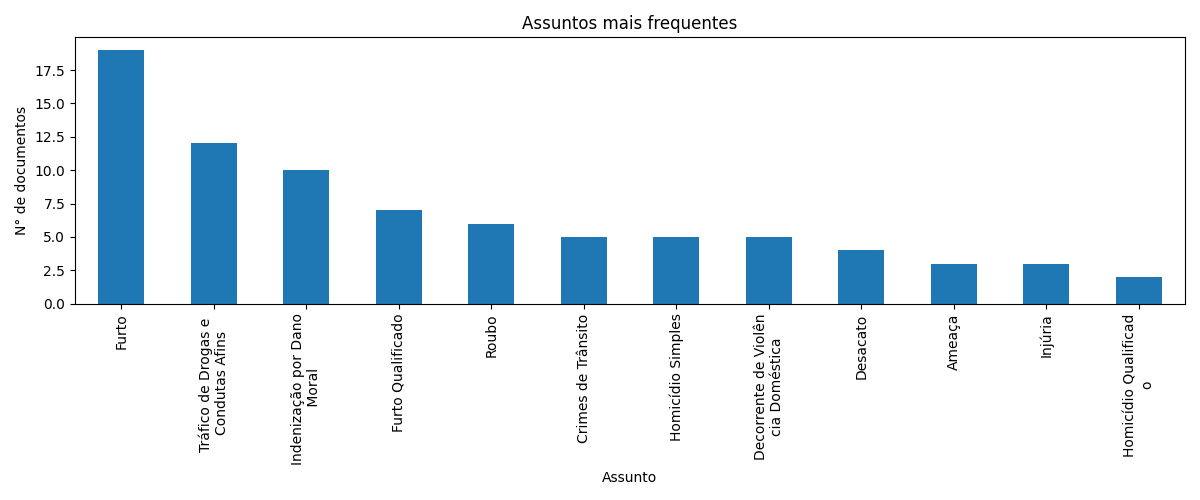
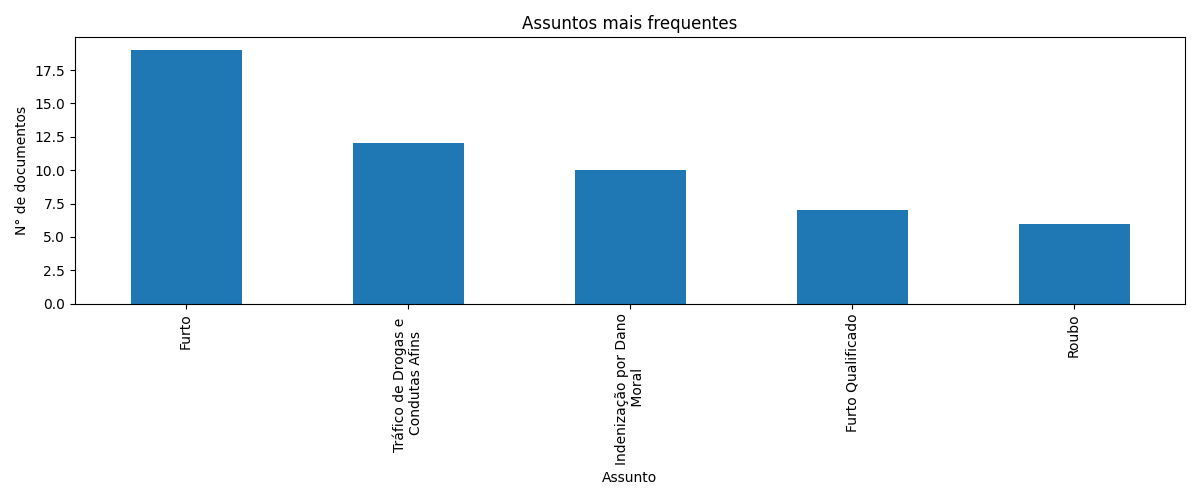
added pie chart option to count documents model

diff --git a/Interface/gui/views.py b/Interface/gui/views.py
@@ -617,15 +617,16 @@ class StatisticsOptionsView(View):
                     my_image = tk.PhotoImage(file = line)
                     text_box.image_create(tk.END, image = my_image)
                     # resize so the image can be seen
-                    height = height = 30
+                    height = height + 20
                     text_box.config(height = height)
 
                     # download image button
+                    text_box.insert(tk.END,'\n')
                     def download_handler(self=self, image = my_image, image_path = line):
                         return self.download_image(image,image_path)
-                    last_line_init = text_box.get('end-1c linestart')
-                    print(len(last_line_init))
                     text_box.window_create(tk.END, window = ttk.Button(text_box, text = 'Baixar imagem',command = download_handler))
+                    # Centralize button and image
+                    text_box.tag_add('center','end-1l linestart','end')
                 elif isinstance(line,str):
                     text_box.insert(tk.END,line,'left')
                 else:
@@ -681,8 +682,10 @@ class CountDocumentsView(ComponentView):
         super().__init__()
         self.parent = None
         self.selection_list = []
-        self.histogram_select_variable = tk.IntVar()
-        self.histogram_n_variable = tk.StringVar()
+        self.bar_select_variable = tk.IntVar()
+        self.bar_n_variable = tk.StringVar()
+        self.pie_select_variable = tk.IntVar()
+        self.pie_n_variable = tk.StringVar()
 
     def create_view(self,parent, view_filters_list):
         self.parent = parent
@@ -700,44 +703,64 @@ class CountDocumentsView(ComponentView):
 
         self.create_combobox(self.combobox_frame, width = 10, font = self.verytiny_font,justify = 'right', state = 'readonly', values = view_filters_list)
 
-        # histogram options
+        # bar options
         self.his_frame = ttk.Frame(parent)
         self.his_frame.grid(row = 1, column = 0, pady = 5, sticky = tk.W)
 
         self.his_label = ttk.Label(self.his_frame, text = 'Gerar gráfico de barras', style = 'Std.TLabel')
         self.his_label.grid(row = 0, column = 0)
 
-        self.hist_checkbox = ttk.Checkbutton(self.his_frame, variable = self.histogram_select_variable, command = self.show_hide_hist_options)
-        self.hist_checkbox.grid(row = 0, column = 1, padx = 10)
+        self.bar_checkbox = ttk.Checkbutton(self.his_frame, variable = self.bar_select_variable, command = self.show_hide_bar_options)
+        self.bar_checkbox.grid(row = 0, column = 1, padx = 10, sticky = tk.E)
 
-        self.hist_options_frame = ttk.Frame(self.his_frame)
-        self.hist_options_frame.grid(row = 0, column = 2)
-        self.hist_options_label1 = ttk.Label(self.hist_options_frame, text = '- Considerar as ', style = 'Std.TLabel')
-        self.hist_options_label1.grid(row = 0, column = 0)
-        self.histogram_n_variable.set('')
-        self.hist_options_entry = ttk.Entry(self.hist_options_frame, textvariable = self.histogram_n_variable, width = 4)
-        self.hist_options_entry.grid(row = 0, column = 1)
-        self.hist_options_label2 = ttk.Label(self.hist_options_frame, text = ' aparições mais frequentes. ', style = 'Std.TLabel')
-        self.hist_options_label2.grid(row = 0, column = 2)
+        self.bar_options_frame = ttk.Frame(self.his_frame)
+        self.bar_options_frame.grid(row = 0, column = 2)
+        self.bar_options_label1 = ttk.Label(self.bar_options_frame, text = '- Considerar as ', style = 'Std.TLabel')
+        self.bar_options_label1.grid(row = 0, column = 0)
+        self.bar_n_variable.set('')
+        self.bar_options_entry = ttk.Entry(self.bar_options_frame, textvariable = self.bar_n_variable, width = 4)
+        self.bar_options_entry.grid(row = 0, column = 1)
+        self.bar_options_label2 = ttk.Label(self.bar_options_frame, text = ' aparições mais frequentes. ', style = 'Std.TLabel')
+        self.bar_options_label2.grid(row = 0, column = 2)
 
         # hide frame so its shown only when the user selects the checkbox
-        self.hist_options_frame.grid_remove()
+        self.bar_options_frame.grid_remove()
 
-    def show_hide_hist_options(self):
-        if self.histogram_select_variable.get() == 1:
-            self.hist_options_frame.grid()
+        # pie chart options
+        self.pie_frame = ttk.Frame(parent)
+        self.pie_frame.grid(row = 2, column = 0, pady = 5, sticky = tk.W)
+
+        self.pie_label = ttk.Label(self.pie_frame, text = 'Gerar gráfico de pizza', style = 'Std.TLabel')
+        self.pie_label.grid(row = 0, column = 0)
+
+        self.pie_checkbox = ttk.Checkbutton(self.pie_frame, variable = self.pie_select_variable)
+        self.pie_checkbox.grid(row = 0, column = 1, padx = 10, sticky = tk.E)
+
+    def show_hide_bar_options(self):
+        if self.bar_select_variable.get() == 1:
+            self.bar_options_frame.grid()
         else:
-            self.hist_options_frame.grid_remove()
+            self.bar_options_frame.grid_remove()
 
     def get_extra_input(self):
         extra_input = {}
         extra_input['selected_categories'] = [x.get() for x in self.selection_list]
-        extra_input['histogram_selected'] = self.histogram_select_variable.get()
-        extra_input['histogram_n'] = int(self.histogram_n_variable.get())
-        if (extra_input['histogram_selected'] == 1 and extra_input['histogram_n'] == ''):
-            tk.messagebox.showerror('Erro', 'Digite quantas aparições mais frequentes você deseja que tenha no gráfico.')
+        extra_input['bar_selected'] = self.bar_select_variable.get()
+
+        # Handle missing n entry
+        # Bar graph
+        if (extra_input['bar_selected'] == 1 and self.bar_n_variable.get() == ''):
+            tk.messagebox.showerror('Erro', 'Digite quantas aparições mais frequentes você deseja que tenha no gráfico de barras.')
             # Won't show the plot
-            extra_input['histogram_selected'] = 0
+            extra_input['bar_selected'] = 0
+        elif extra_input['bar_selected'] == 1:
+            extra_input['bar_n'] = int(self.bar_n_variable.get())
+        else:
+            # bar graph wasnt selected
+            extra_input['bar_n'] = 0
+        # Pie chart
+        extra_input['pie_selected'] = self.pie_select_variable.get()
+
         return extra_input
 
     def create_combobox(self, parent, width, font, justify, state, values):

diff --git a/Interface/gui/models.py b/Interface/gui/models.py
@@ -7,6 +7,7 @@ import matplotlib.pyplot as plt
 import pandas as pd
 
 # All new modules have to inherit from this class
+TEXT_WIDGET_WIDTH = 160
 class ComponentModel():
     @abstractmethod
     def get_name():
@@ -226,7 +227,7 @@ class CountDocuments(ComponentModel):
 
     def get_description(self):
         string =  'Realiza a contagem dos documentos em relação às categorias escolhidas, os resultados incluem contagem absoluta e contagem relativa. '
-        string += 'Para gerar também um gráfico de barras das aparições mais frequentes selecione a opção "Gerar gráfico de barras".'
+        string += 'Para gerar gráficos selecione alguns dos checkboxes disponíveis.'
         return string
 
     def insert_linebreak(self,string, lengLabel=20):
@@ -247,23 +248,38 @@ class CountDocuments(ComponentModel):
                 relative_count = df[column].value_counts(normalize = True)
                 tmp_df = pd.DataFrame({'Absoluto': absolute_count, 'Relativo' : relative_count})
                 output.append(tmp_df.to_string(justify='right'))
-                if extra_input['histogram_selected'] == 1:
+                if extra_input['bar_selected'] == 1:
                     # add a line break so the names can be read
-                    tmp_df.index = tmp_df.index.map(self.insert_linebreak)
+                    bar_df = tmp_df.copy()
+                    bar_df.index = bar_df.index.map(self.insert_linebreak)
 
-                    output.append('\nGráfico das '+ str(extra_input['histogram_n'])+' aparições mais frequentes:')
+                    output.append('\nGráfico de barras das '+ str(extra_input['bar_n'])+' aparições mais frequentes:')
 
-                    plt.rcParams['figure.figsize']=(12,5)
-                    plt.rcParams['font.size'] = 10.0
-
-                    tmp_df['Absoluto'].head(extra_input['histogram_n']).plot(kind='bar')
-                    plt.xlabel(column.capitalize())
-                    plt.ylabel('N° de documentos')
-                    plt.title(str(column.capitalize()+ 's mais frequentes'))
+                    bar_fig, bar_ax = plt.subplots()
+                    bar_fig.set_size_inches((12,6))
+                    plt.rcParams['font.size'] = 12.0
+                    bar_df['Absoluto'].head(extra_input['bar_n']).plot(kind='bar', ax=bar_ax)
+                    bar_ax.set_xlabel(column.capitalize())
+                    bar_ax.set_ylabel('N° de documentos')
+                    bar_ax.set_title(str(column.capitalize()+ 's mais frequentes'))
                     plt.tight_layout()
                     cwd = os.getcwd()
-                    plt.savefig(cwd+'/images/'+column+'.png')
-                    output.append(cwd+'/images/'+column+'.png')
-                output.append(160*'-')
+                    bar_fig.savefig(cwd+'/images/'+column+'_bar'+'.png')
+                    output.append(cwd+'/images/'+column+'_bar'+'.png')
+                if extra_input['pie_selected'] == 1:
+                    output.append('\nGráfico de pizza:')
+                    pie_fig, pie_ax = plt.subplots()
+                    pie_fig.set_size_inches((12,6))
+                    plt.rcParams['font.size'] = 12.0
+
+                    # Uses the relative count because its a pie chart
+                    tmp_df['Relativo'].plot(kind='pie', ax=pie_ax, autopct='%1.1f%%', textprops={'fontsize': 8}, normalize = True)
+                    pie_ax.set_title(str(column.capitalize()+ 's'))
+                    pie_ax.set_ylabel('')
+                    plt.tight_layout()
+                    cwd = os.getcwd()
+                    pie_fig.savefig(cwd+'/images/'+column+'_pie'+'.png')
+                    output.append(cwd+'/images/'+column+'_pie'+'.png')
+            output.append('-'*TEXT_WIDGET_WIDTH)
 
         return output
